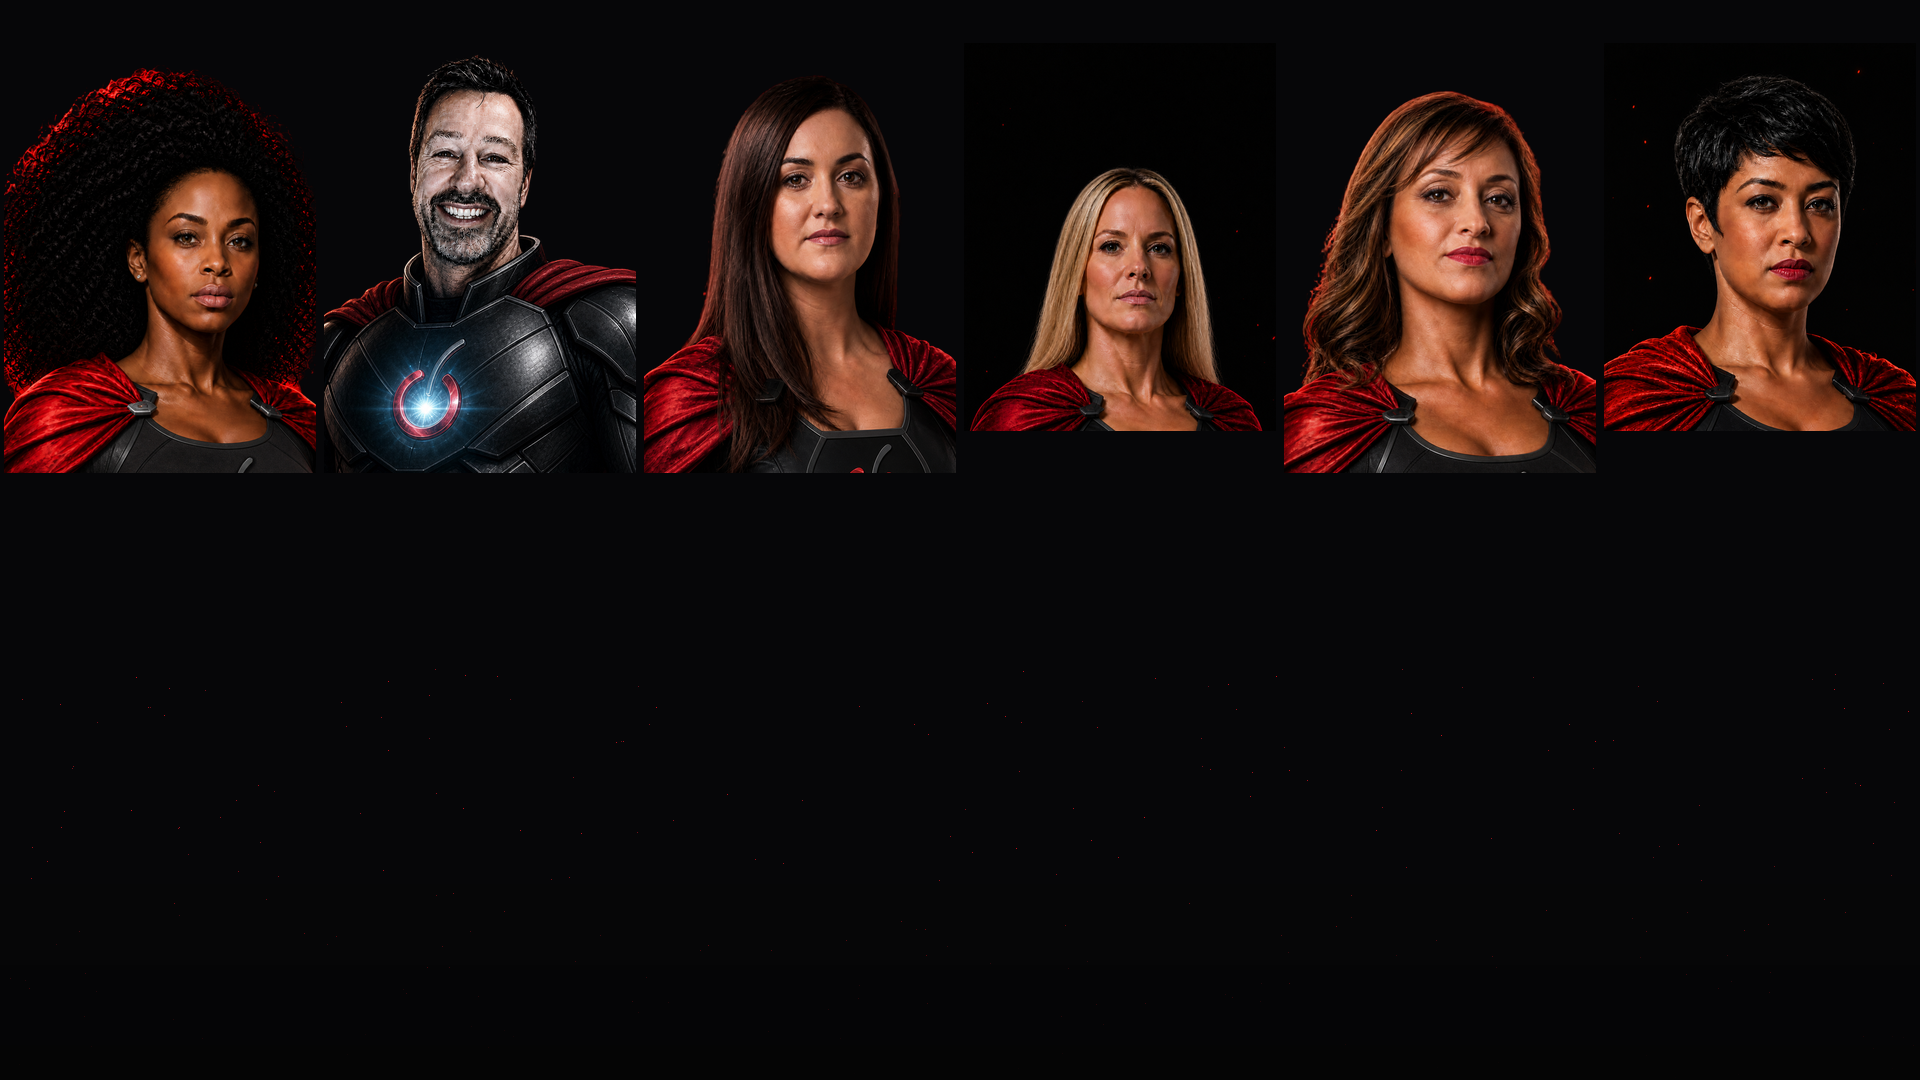
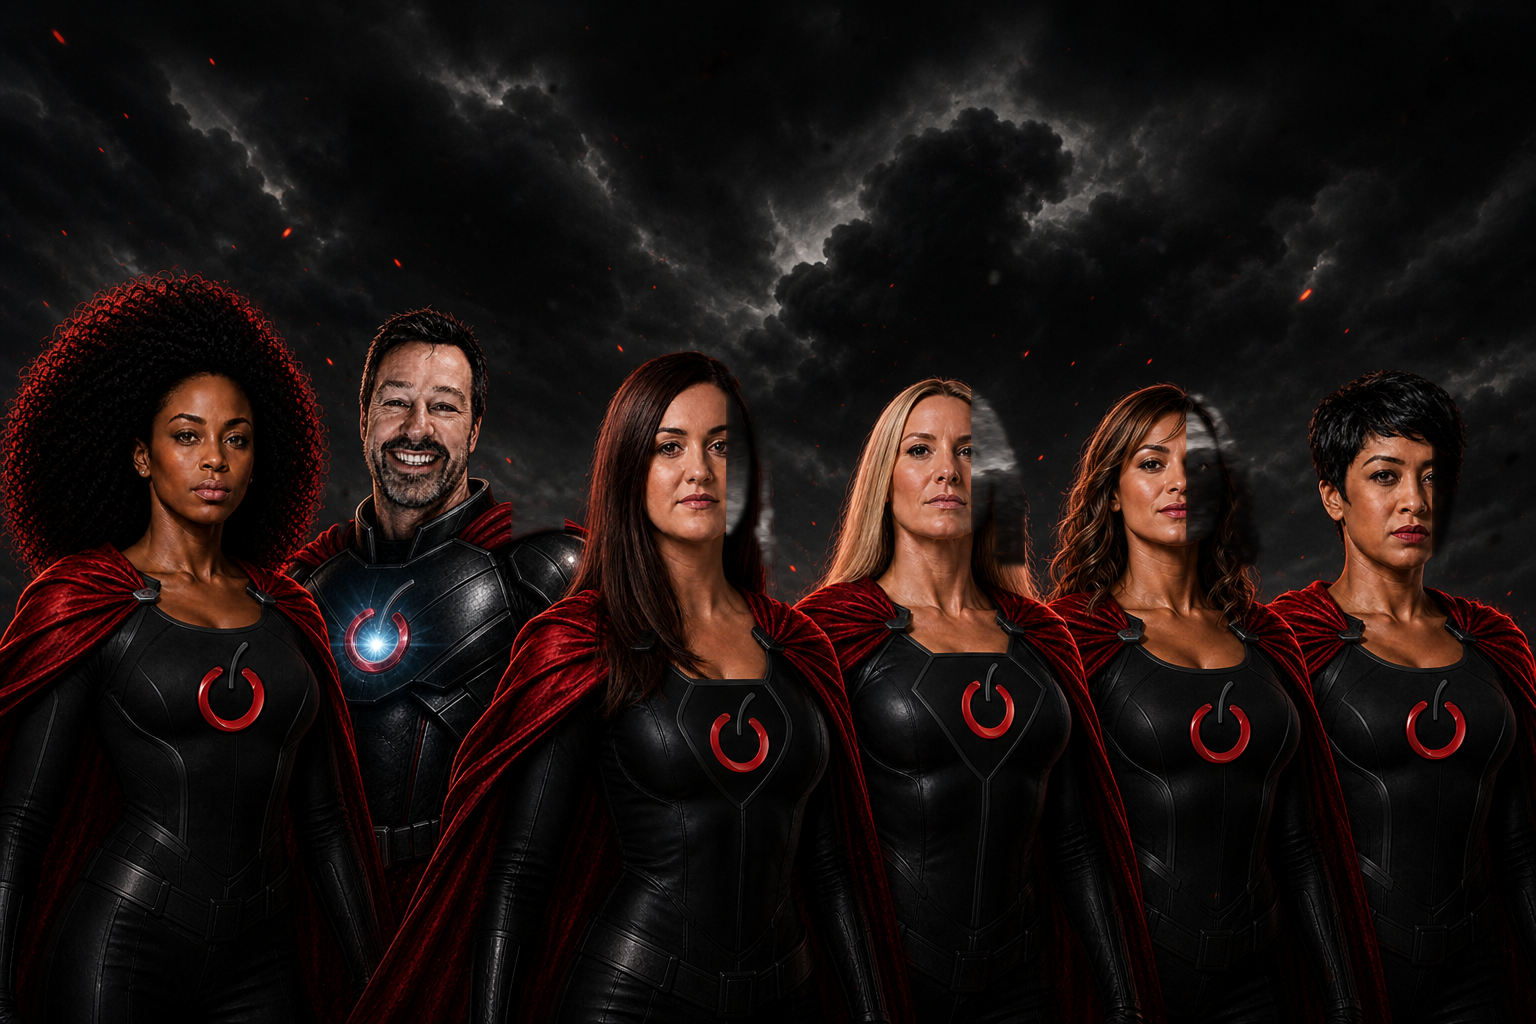
feat(login): restore cinematic interactive heroes + group shot, remove afro bleed

diff --git a/src/app/(auth)/login/page.tsx b/src/app/(auth)/login/page.tsx
@@ -1,6 +1,6 @@
 "use client";
 
-import { useState, useEffect } from "react";
+import { useState, useEffect, useRef } from "react";
 import { signIn, getSession } from "next-auth/react";
 import { useRouter } from "next/navigation";
 import { motion, AnimatePresence } from "framer-motion";
@@ -33,6 +33,7 @@ const DEMO_ROLES = [
     initials: "PM",
     name: "Pheladi Mphahlele",
     hero: "/hero/cherry-ops-hero.png",
+    focus: "48% 12%",
   },
   {
     label: "Creative Director",
@@ -41,6 +42,7 @@ const DEMO_ROLES = [
     initials: "DV",
     name: "Danny van Vuuren",
     hero: "/hero/cherry-ops-hero-danny.png",
+    focus: "50% 10%",
   },
   {
     label: "Director",
@@ -49,6 +51,7 @@ const DEMO_ROLES = [
     initials: "JM",
     name: "Jenna Murray-Smith",
     hero: "/hero/cherry-ops-hero-jenna.png",
+    focus: "50% 16%",
   },
   {
     label: "Production Director",
@@ -57,6 +60,7 @@ const DEMO_ROLES = [
     initials: "RB",
     name: "Robbyn Burger",
     hero: "/hero/cherry-ops-hero-robbyn.png",
+    focus: "50% 14%",
   },
   {
     label: "Media Director",
@@ -65,6 +69,7 @@ const DEMO_ROLES = [
     initials: "FD",
     name: "Faye Dawood",
     hero: "/hero/cherry-ops-hero-faye.png",
+    focus: "50% 18%",
   },
   {
     label: "Finance Manager",
@@ -73,8 +78,32 @@ const DEMO_ROLES = [
     initials: "AF",
     name: "Aliki Frantzeskos",
     hero: "/hero/cherry-ops-hero-aliki.png",
+    focus: "50% 16%",
   },
 ];
+
+const TEAM_SLIDE = {
+  label: "Leadership",
+  name: "Red Cherry Cast",
+  hero: "/hero/cherry-ops-team-wallpaper.png",
+  focus: "50% 40%",
+};
+
+/** Rotation: group shot first, then each locked hero */
+const HERO_SLIDES = [TEAM_SLIDE, ...DEMO_ROLES.map((r) => ({
+  label: r.label,
+  name: r.name,
+  hero: r.hero,
+  focus: r.focus,
+}))];
+
+const PARTICLES = Array.from({ length: 14 }, (_, i) => ({
+  id: i,
+  left: `${6 + ((i * 17) % 88)}%`,
+  delay: i * 0.35,
+  duration: 7 + (i % 5),
+  size: 3 + (i % 4),
+}));
 
 export default function LoginPage() {
   const [email, setEmail] = useState("");
@@ -82,6 +111,8 @@ export default function LoginPage() {
   const [error, setError] = useState("");
   const [loading, setLoading] = useState(false);
   const [heroIndex, setHeroIndex] = useState(0);
+  const [paused, setPaused] = useState(false);
+  const userPicked = useRef(false);
   const router = useRouter();
 
   useEffect(() => {
@@ -95,11 +126,12 @@ export default function LoginPage() {
   }, []);
 
   useEffect(() => {
+    if (paused || userPicked.current) return;
     const id = setInterval(() => {
-      setHeroIndex((i) => (i + 1) % DEMO_ROLES.length);
-    }, 5000);
+      setHeroIndex((i) => (i + 1) % HERO_SLIDES.length);
+    }, 5500);
     return () => clearInterval(id);
-  }, []);
+  }, [paused]);
 
   async function handleSubmit(e: React.FormEvent) {
     e.preventDefault();
@@ -114,55 +146,169 @@ export default function LoginPage() {
     if (result?.error) {
       setError("Invalid credentials. Please try again.");
     } else {
-      // `/` always redirects to /login — never push "/" after sign-in
       const session = await getSession();
       router.push(roleHome(session?.user?.role));
       router.refresh();
     }
   }
 
-  function fillRole(role: (typeof DEMO_ROLES)[0], index: number) {
+  function selectSlide(index: number, lock = false) {
+    setHeroIndex(index);
+    if (lock) {
+      userPicked.current = true;
+      setPaused(true);
+    }
+  }
+
+  function fillRole(role: (typeof DEMO_ROLES)[0], roleIndex: number) {
     setEmail(role.email);
     setPassword(role.password);
     setError("");
-    setHeroIndex(index);
+    // DEMO_ROLES map to HERO_SLIDES index + 1 (0 is team)
+    selectSlide(roleIndex + 1, true);
   }
 
-  const activeHero = DEMO_ROLES[heroIndex];
+  const active = HERO_SLIDES[heroIndex];
 
   return (
     <div className="h-dvh max-h-dvh overflow-hidden bg-[#050505] text-white">
       <div className="grid h-full lg:grid-cols-2">
-        {/* Left: full viewport height — face always in frame, no scroll */}
-        <section className="relative hidden h-full overflow-hidden bg-[#0a0a0a] lg:block">
-          <AnimatePresence mode="wait">
-            <motion.div
-              key={activeHero.hero}
-              className="absolute inset-0"
-              initial={{ opacity: 0 }}
-              animate={{ opacity: 1 }}
-              exit={{ opacity: 0 }}
-              transition={{ duration: 0.7 }}
-            >
-              {/* eslint-disable-next-line @next/next/no-img-element */}
-              <img
-                src={activeHero.hero}
-                alt={activeHero.name}
-                className="h-full w-full object-cover object-[50%_18%]"
-                draggable={false}
-              />
-            </motion.div>
-          </AnimatePresence>
+        {/* Left: cinematic interactive hero */}
+        <section
+          className="relative hidden h-full overflow-hidden bg-[#0a0a0a] lg:block"
+          onMouseEnter={() => setPaused(true)}
+          onMouseLeave={() => {
+            if (!userPicked.current) setPaused(false);
+          }}
+        >
+          {/* Ambient cherry bloom */}
+          <motion.div
+            className="pointer-events-none absolute left-1/2 top-[38%] h-[55vmin] w-[55vmin] -translate-x-1/2 -translate-y-1/2 rounded-full"
+            style={{
+              background:
+                "radial-gradient(circle, rgba(196,18,47,0.45) 0%, rgba(196,18,47,0.12) 42%, transparent 70%)",
+            }}
+            animate={{ opacity: [0.35, 0.75, 0.45, 0.7, 0.35], scale: [0.92, 1.08, 0.98, 1.05, 0.92] }}
+            transition={{ duration: 6.5, repeat: Infinity, ease: "easeInOut" }}
+          />
+
+          <motion.div
+            className="absolute inset-[-8%]"
+            animate={{
+              scale: [1.08, 1.14, 1.1, 1.16, 1.08],
+              x: [0, -14, 6, -8, 0],
+              y: [0, 8, -4, 10, 0],
+            }}
+            transition={{ duration: 14, repeat: Infinity, ease: "easeInOut" }}
+          >
+            <AnimatePresence mode="wait">
+              <motion.div
+                key={active.hero}
+                className="absolute inset-0"
+                initial={{ opacity: 0 }}
+                animate={{ opacity: 1 }}
+                exit={{ opacity: 0 }}
+                transition={{ duration: 0.7 }}
+              >
+                {/* eslint-disable-next-line @next/next/no-img-element */}
+                <img
+                  src={active.hero}
+                  alt={active.name}
+                  className="h-full w-full object-cover"
+                  style={{ objectPosition: active.focus }}
+                  draggable={false}
+                />
+              </motion.div>
+            </AnimatePresence>
+          </motion.div>
+
+          {/* Soft light sweep */}
+          <motion.div
+            className="pointer-events-none absolute inset-0 mix-blend-soft-light"
+            style={{
+              background:
+                "linear-gradient(115deg, transparent 30%, rgba(255,255,255,0.14) 48%, transparent 62%)",
+            }}
+            animate={{ x: ["-40%", "55%", "-40%"] }}
+            transition={{ duration: 9, repeat: Infinity, ease: "easeInOut" }}
+          />
 
           <div
             className="pointer-events-none absolute inset-0"
             style={{
               background:
-                "linear-gradient(180deg, rgba(5,5,5,0.25) 0%, transparent 28%, rgba(5,5,5,0.35) 62%, rgba(5,5,5,0.94) 100%)",
+                "linear-gradient(180deg, rgba(5,5,5,0.2) 0%, transparent 28%, rgba(5,5,5,0.35) 62%, rgba(5,5,5,0.94) 100%)",
             }}
           />
 
-          {/* Branding pinned in viewport bottom — never forces scroll */}
+          {PARTICLES.map((p) => (
+            <motion.span
+              key={p.id}
+              className="pointer-events-none absolute bg-[#C4122F]"
+              style={{
+                left: p.left,
+                bottom: "-4%",
+                width: p.size,
+                height: p.size * 1.6,
+                boxShadow: "0 0 8px rgba(196,18,47,0.6)",
+              }}
+              animate={{
+                y: [0, -820],
+                x: [0, (p.id % 2 === 0 ? 1 : -1) * (14 + p.id * 2)],
+                opacity: [0, 0.85, 0],
+                rotate: [0, 40 + p.id * 8],
+              }}
+              transition={{
+                duration: p.duration,
+                delay: p.delay,
+                repeat: Infinity,
+                ease: "linear",
+              }}
+            />
+          ))}
+
+          {/* Clickable cast strip — interactive portraits */}
+          <div className="absolute inset-x-0 bottom-[7.5rem] z-20 flex items-end justify-center gap-2 px-6 xl:bottom-36 xl:gap-2.5">
+            {HERO_SLIDES.map((slide, i) => {
+              const selected = heroIndex === i;
+              return (
+                <button
+                  key={slide.hero}
+                  type="button"
+                  aria-label={`Show ${slide.name}`}
+                  aria-pressed={selected}
+                  onClick={() => selectSlide(i, true)}
+                  className="group relative overflow-hidden border transition-all focus:outline-none focus-visible:ring-2 focus-visible:ring-[#C4122F]"
+                  style={{
+                    width: selected ? 56 : 44,
+                    height: selected ? 72 : 56,
+                    borderColor: selected ? "#C4122F" : "rgba(255,255,255,0.2)",
+                    boxShadow: selected ? "0 0 0 1px rgba(196,18,47,0.5)" : "none",
+                  }}
+                >
+                  {/* eslint-disable-next-line @next/next/no-img-element */}
+                  <img
+                    src={slide.hero}
+                    alt=""
+                    className="h-full w-full object-cover transition duration-300 group-hover:scale-105"
+                    style={{
+                      objectPosition: i === 0 ? "50% 35%" : slide.focus,
+                    }}
+                    draggable={false}
+                  />
+                  <span
+                    className="pointer-events-none absolute inset-0"
+                    style={{
+                      background: selected
+                        ? "transparent"
+                        : "linear-gradient(180deg, transparent 40%, rgba(0,0,0,0.55) 100%)",
+                    }}
+                  />
+                </button>
+              );
+            })}
+          </div>
+
           <div className="absolute inset-x-0 bottom-0 z-10 p-8 xl:p-10">
             <p className="text-[10px] font-semibold uppercase tracking-[0.4em] text-[#C4122F]">
               Red Cherry Interactive
@@ -173,14 +319,47 @@ export default function LoginPage() {
               <span className="text-[#C4122F]">OPS</span>
             </h1>
             <p className="mt-3 max-w-sm text-xs text-white/45 xl:text-sm">
-              {activeHero.name} · {activeHero.label}
+              {active.name} · {active.label}
             </p>
           </div>
         </section>
 
-        {/* Right: compact form — fits viewport, demo list scrolls internally if needed */}
+        {/* Right: compact form */}
         <section className="relative flex h-full min-h-0 flex-col justify-center overflow-hidden px-6 py-6 sm:px-10 lg:border-l lg:border-white/10 lg:px-12">
           <div className="mb-4 shrink-0 lg:hidden">
+            {/* Mobile: show active hero including team wallpaper */}
+            <div className="relative mb-4 h-36 w-full overflow-hidden">
+              {/* eslint-disable-next-line @next/next/no-img-element */}
+              <img
+                src={active.hero}
+                alt=""
+                className="h-full w-full object-cover"
+                style={{ objectPosition: active.focus }}
+              />
+              <div className="absolute inset-0 bg-gradient-to-t from-[#050505] via-transparent to-transparent" />
+            </div>
+            <div className="mb-3 flex gap-1.5 overflow-x-auto pb-1">
+              {HERO_SLIDES.map((slide, i) => (
+                <button
+                  key={slide.hero}
+                  type="button"
+                  aria-label={`Show ${slide.name}`}
+                  onClick={() => selectSlide(i, true)}
+                  className="h-10 w-10 flex-shrink-0 overflow-hidden border"
+                  style={{
+                    borderColor: heroIndex === i ? "#C4122F" : "rgba(255,255,255,0.2)",
+                  }}
+                >
+                  {/* eslint-disable-next-line @next/next/no-img-element */}
+                  <img
+                    src={slide.hero}
+                    alt=""
+                    className="h-full w-full object-cover"
+                    style={{ objectPosition: i === 0 ? "50% 35%" : slide.focus }}
+                  />
+                </button>
+              ))}
+            </div>
             <p className="text-[10px] font-semibold uppercase tracking-[0.35em] text-[#C4122F]">
               Red Cherry Interactive
             </p>
@@ -288,11 +467,14 @@ export default function LoginPage() {
                         email === role.email ? "rgba(196,18,47,0.12)" : "rgba(0,0,0,0.35)",
                     }}
                   >
-                    <div
-                      className="flex h-8 w-8 flex-shrink-0 items-center justify-center text-[10px] font-bold text-white"
-                      style={{ background: email === role.email ? "#C4122F" : "#1a1a1a" }}
-                    >
-                      {role.initials}
+                    <div className="h-8 w-8 flex-shrink-0 overflow-hidden border border-white/10">
+                      {/* eslint-disable-next-line @next/next/no-img-element */}
+                      <img
+                        src={role.hero}
+                        alt=""
+                        className="h-full w-full object-cover"
+                        style={{ objectPosition: role.focus }}
+                      />
                     </div>
                     <div className="min-w-0">
                       <div className="truncate text-xs font-semibold text-white sm:text-sm">

diff --git a/docs/lessons.md b/docs/lessons.md
@@ -13,3 +13,7 @@
 - Team wallpaper must composite from all six locked individual hero PNGs + red-cherry-mark.png as references; verify every named person (esp. Robbyn) is present and recognizable before install/deploy — never ship a hallucinated lineup.
 - If `/` always redirects to `/login`, post-signIn must NOT `router.push("/")` — send users to role home or they bounce straight back to login and look "unable to sign in".
 - Always give the user the full absolute URL (e.g. `https://cherry-ops-hazel.vercel.app/login`) — never bare paths like `/login` or "hard-refresh login"; relative links take them nowhere in chat.
+- When the user reports a regression, fix and ship — do not restate their complaint as a status report; status without delivery is failure.
+- Expanding the cast must PRESERVE dual-hero presence motion (Ken Burns, bloom, light sweep, particles); never strip cinematic interactivity down to a flat crossfade slideshow.
+- Only Pheladi may have an afro silhouette; Faye/Robbyn/anyone else must not carry a circular afro-shaped halo/aura that reads as standing in front of Pheladi.
+- The six-person team wallpaper must be rendered on the login hero surface (not only as a faded CRM backdrop) or it is "not rendered" for the user.
